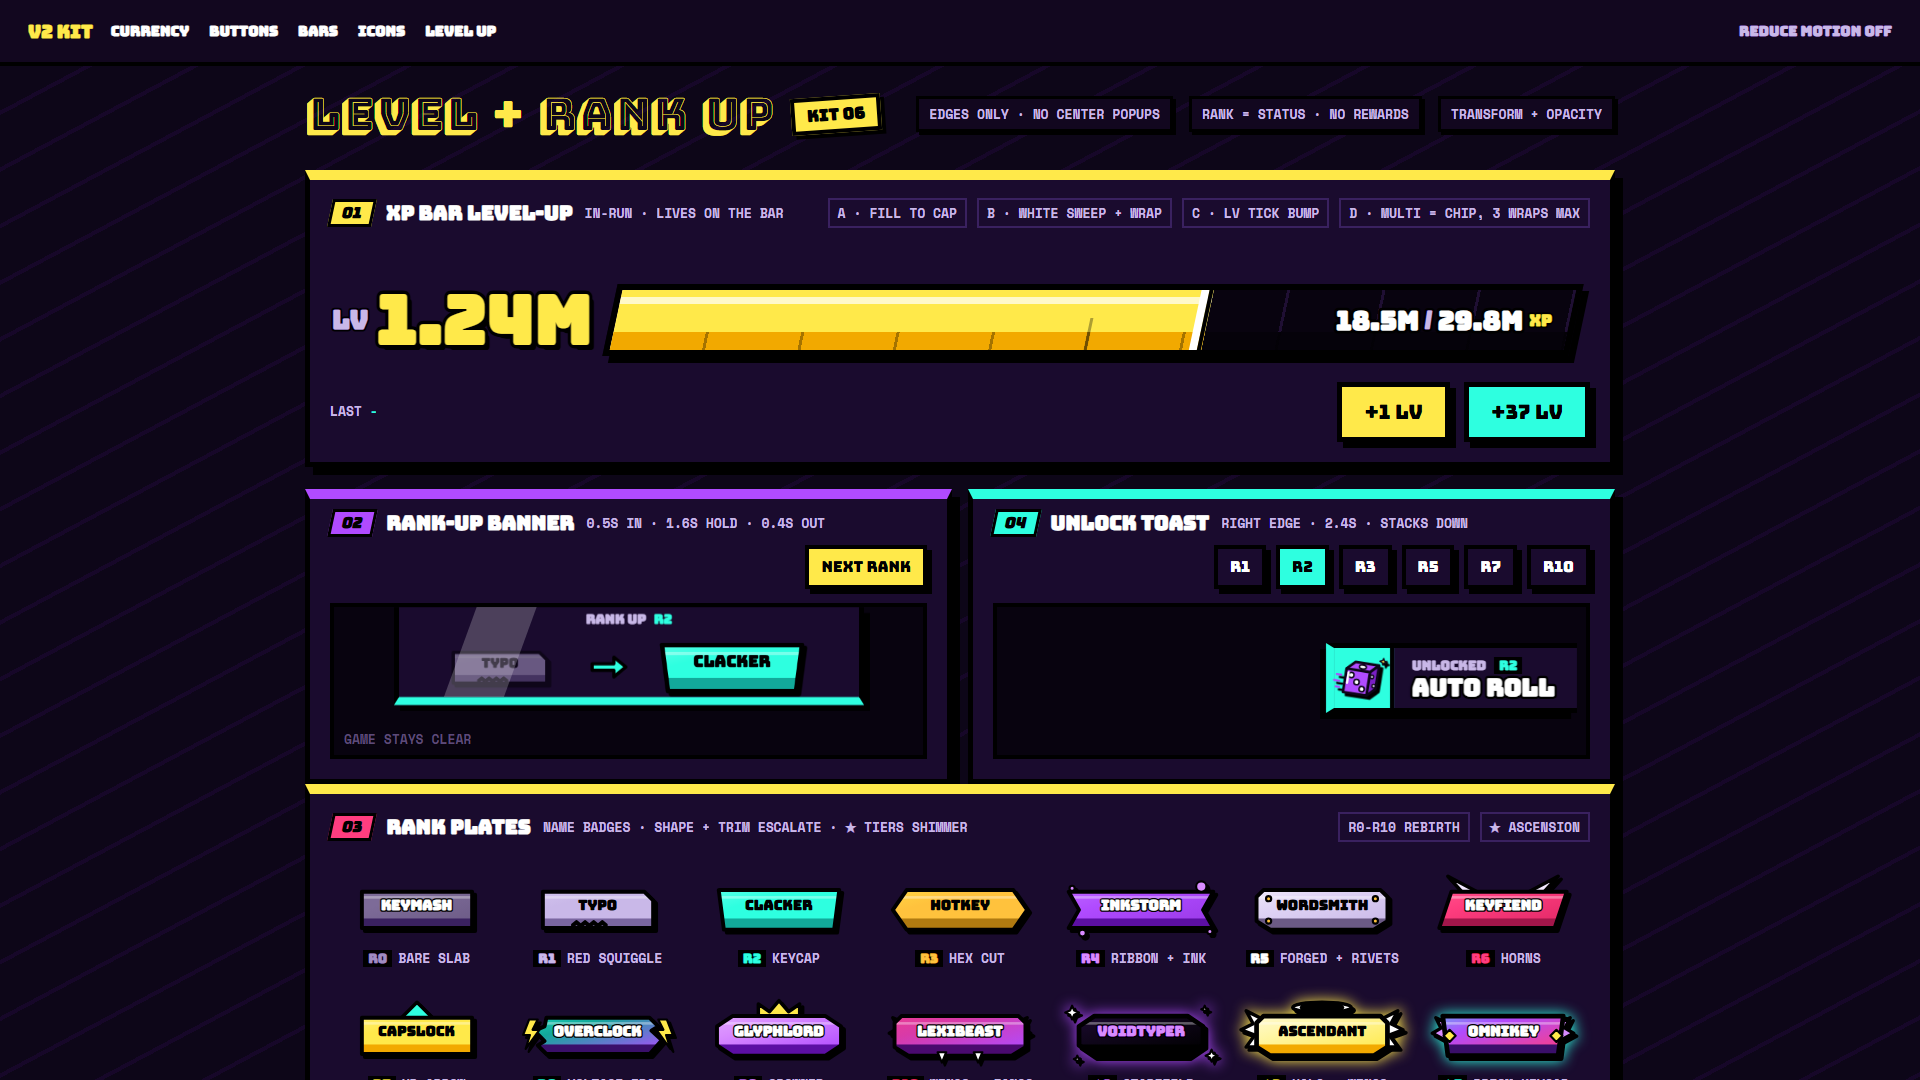
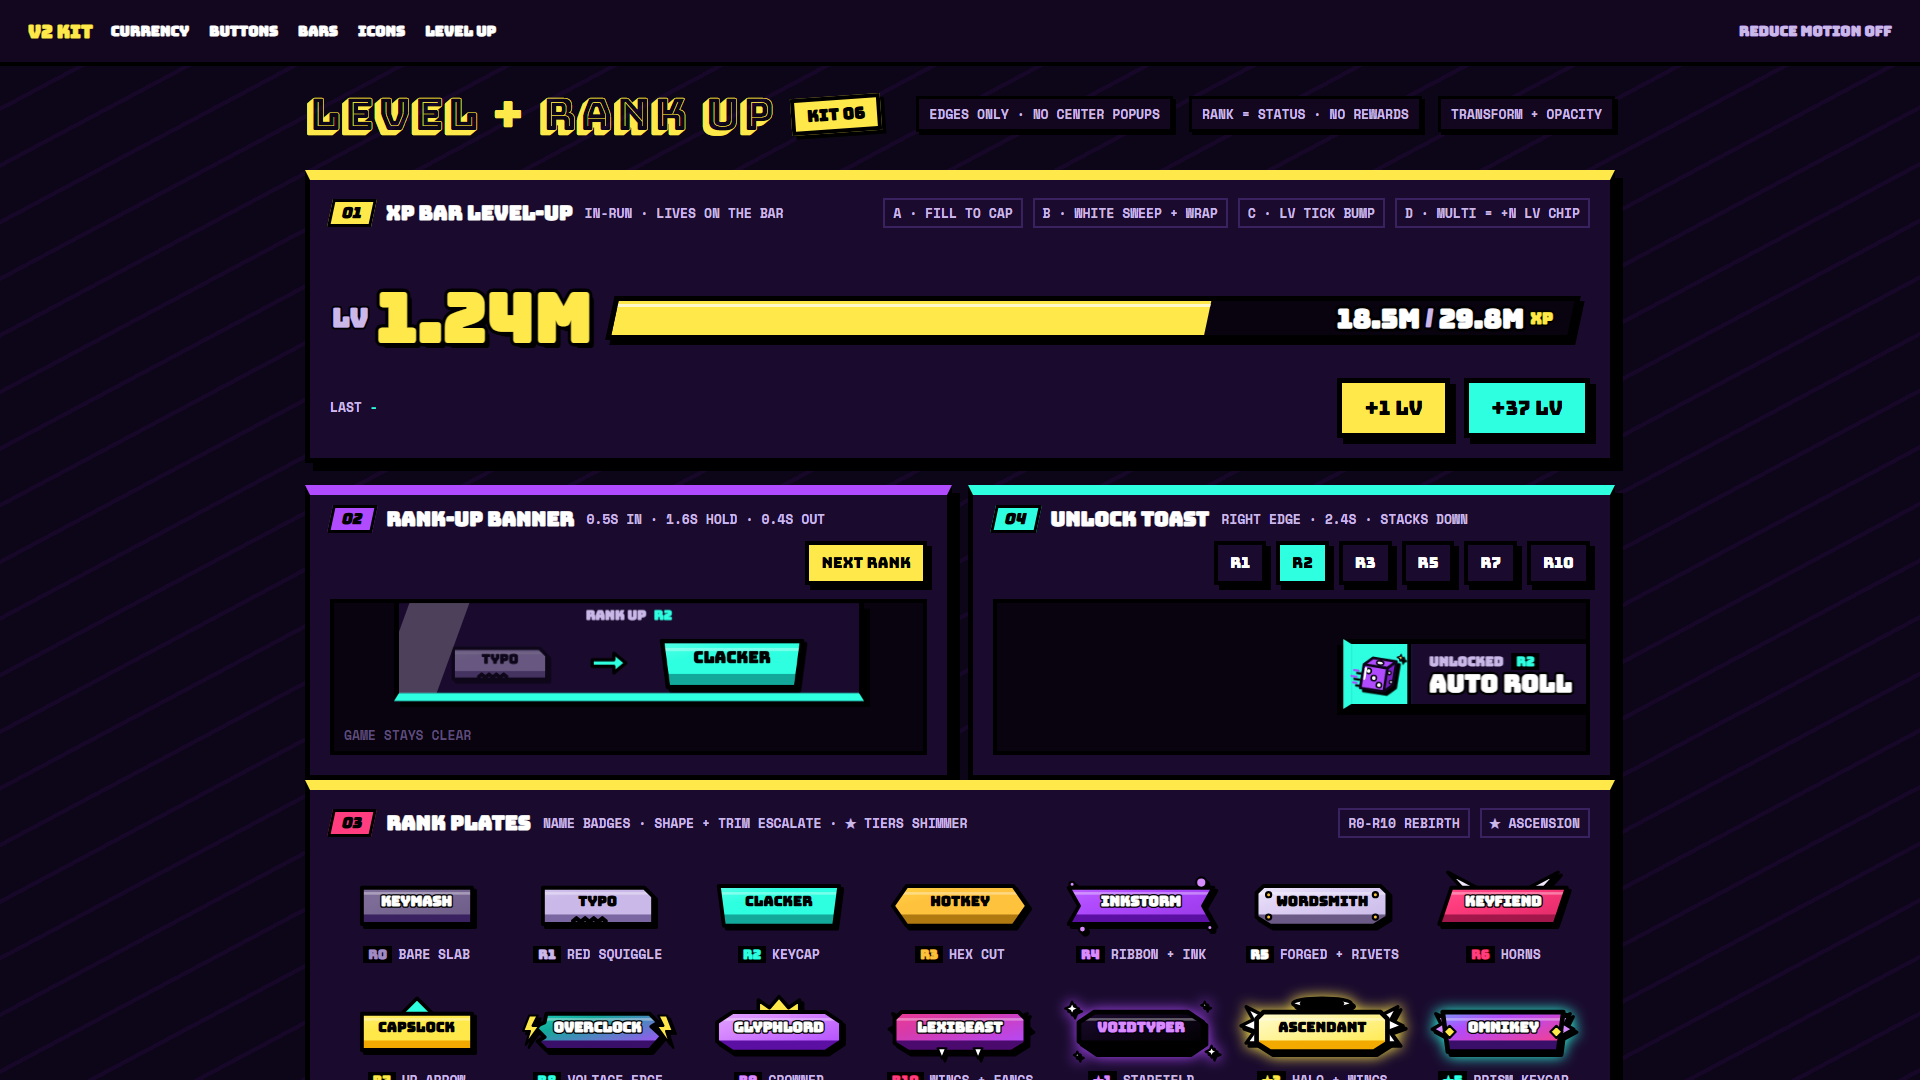
chore: P9a shots on the #228 bar; gallery label
Claude-Session: https://claude.ai/code/session_01V6ndN6P5R6SxmH8iSrtJLQ

Changed region(s): [[0.1562, 0.2444, 0.8438, 1.0], [0.4375, 0.1833, 0.8125, 0.2139], [0.1562, 0.275, 0.2812, 0.3361]]

diff --git a/src/components/kit/gallery/KitGallery.jsx b/src/components/kit/gallery/KitGallery.jsx
@@ -717,7 +717,7 @@ function LevelUpSheet() {
   return (
     <div className="kg-sheet kg-sheet--lu" id="levelup">
       <SheetHead title="LEVEL + RANK UP" tone="yellow" tag="KIT 06" right={<><span className="kg-chip">EDGES ONLY · NO CENTER POPUPS</span><span className="kg-chip">RANK = STATUS · NO REWARDS</span><span className="kg-chip">TRANSFORM + OPACITY</span></>} />
-      <EdgePanel num="01" title="XP BAR LEVEL-UP" tone="yellow" extra="IN-RUN · LIVES ON THE BAR" right={<><span className="kg-out">A · FILL TO CAP</span><span className="kg-out">B · WHITE SWEEP + WRAP</span><span className="kg-out">C · LV TICK BUMP</span><span className="kg-out">D · MULTI = CHIP, 3 WRAPS MAX</span></>} className="kg-x">
+      <EdgePanel num="01" title="XP BAR LEVEL-UP" tone="yellow" extra="IN-RUN · LIVES ON THE BAR" right={<><span className="kg-out">A · FILL TO CAP</span><span className="kg-out">B · WHITE SWEEP + WRAP</span><span className="kg-out">C · LV TICK BUMP</span><span className="kg-out">D · MULTI = +N LV CHIP</span></>} className="kg-x">
         <div className="kg-x-bar" data-testid="lu-xp-wrap">
           <KitXpBar level={xp.lv} frac={xp.fr} need={Math.round(800 * Math.pow(xp.lv + 1, 0.75))} onClimbDone={onClimbDone} className="kg-xp" />
         </div>
